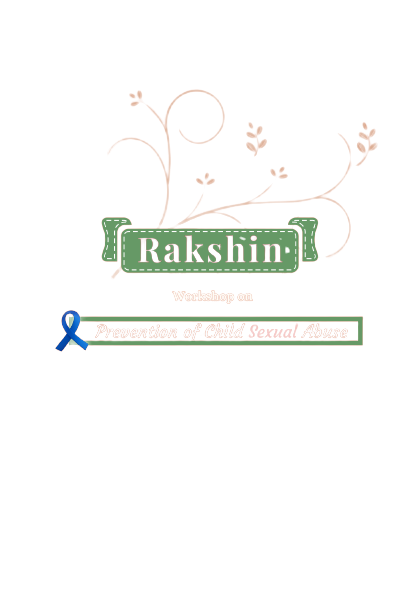
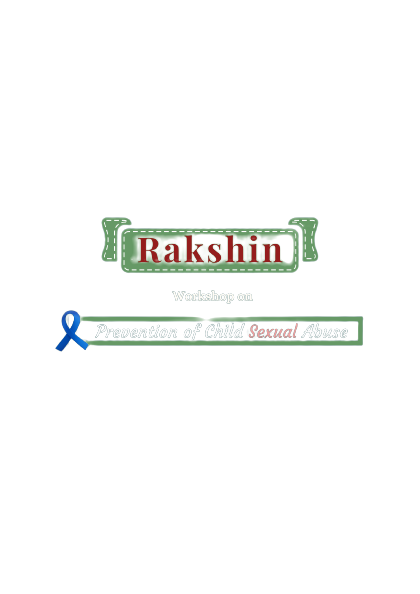
sakshi update

diff --git a/src/Events/events.js b/src/Events/events.js
@@ -38,6 +38,8 @@ import social_tasveer_back from './banners/social_tasveer_back.png'
 import social_tasveer_text from './banners/social_tasveer_text.png'
 import social_tasveer from './banners/social_tasveer_full.png'
 import rakshin from './banners/rakshin.png'
+import rakshin_back from './banners/rakshin_back.png'
+import rakshin_text from './banners/rakshin_text.png'
 import soch from './banners/soch.png'
 import soch_back from './banners/soch_back.png'
 import soch_text from './banners/soch_text.png'
@@ -158,14 +160,14 @@ export const events =
 "sakshi":{
     "title": "SAKSHI",
     "description": "A workshop on Stop Child Sexual Abuse",
-    "image_back": coming_soon,
-    "image_text": null,
+    "image_back": rakshin_back,
+    "image_text": rakshin_text,
     "image": rakshin,
     "date": "1st April",
     "time": "11:00am - 12:30pm",
     "venue": "LH-418",
     "content": "Sakshi NGO is a non-profit organization based in India that focuses on providing education, healthcare, and empowerment programs for underprivileged children and women in rural areas. Their aim is to create sustainable development and improve the quality of life for marginalized communities.Sakshi will be conducting a workshop.Topic - Stop Child Sexual Abuse POCSO Act 2012",
-    "rank":"10",
+    "rank":"0",
     "time-order":"70",
     "category":"workshop",
     "register":null,
